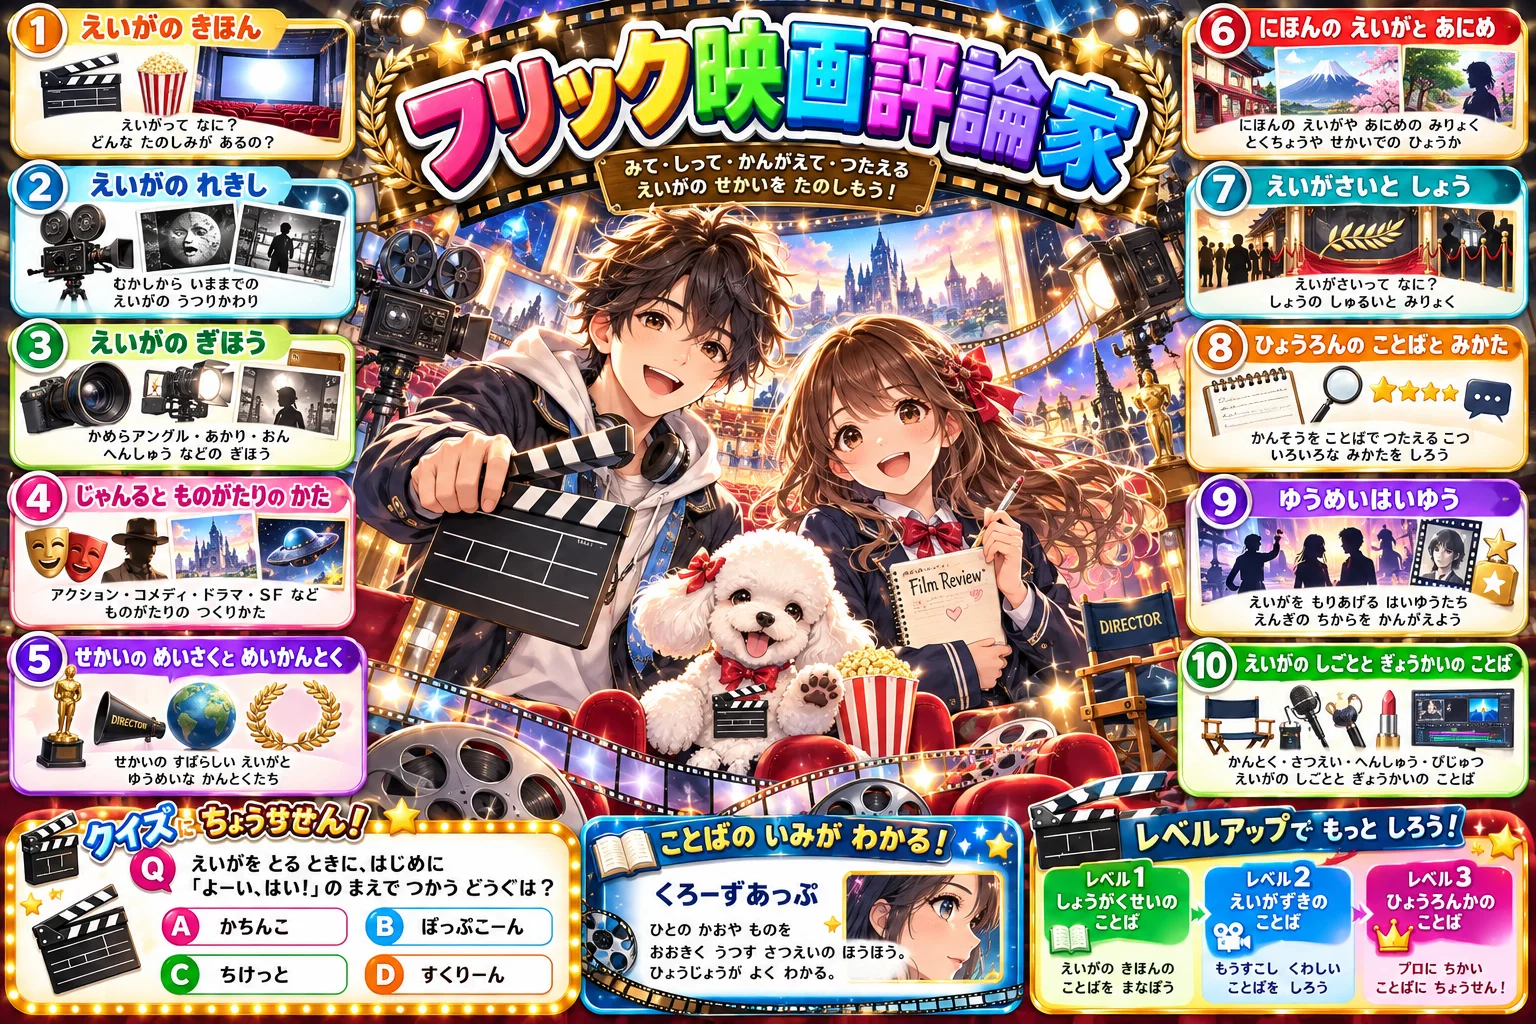
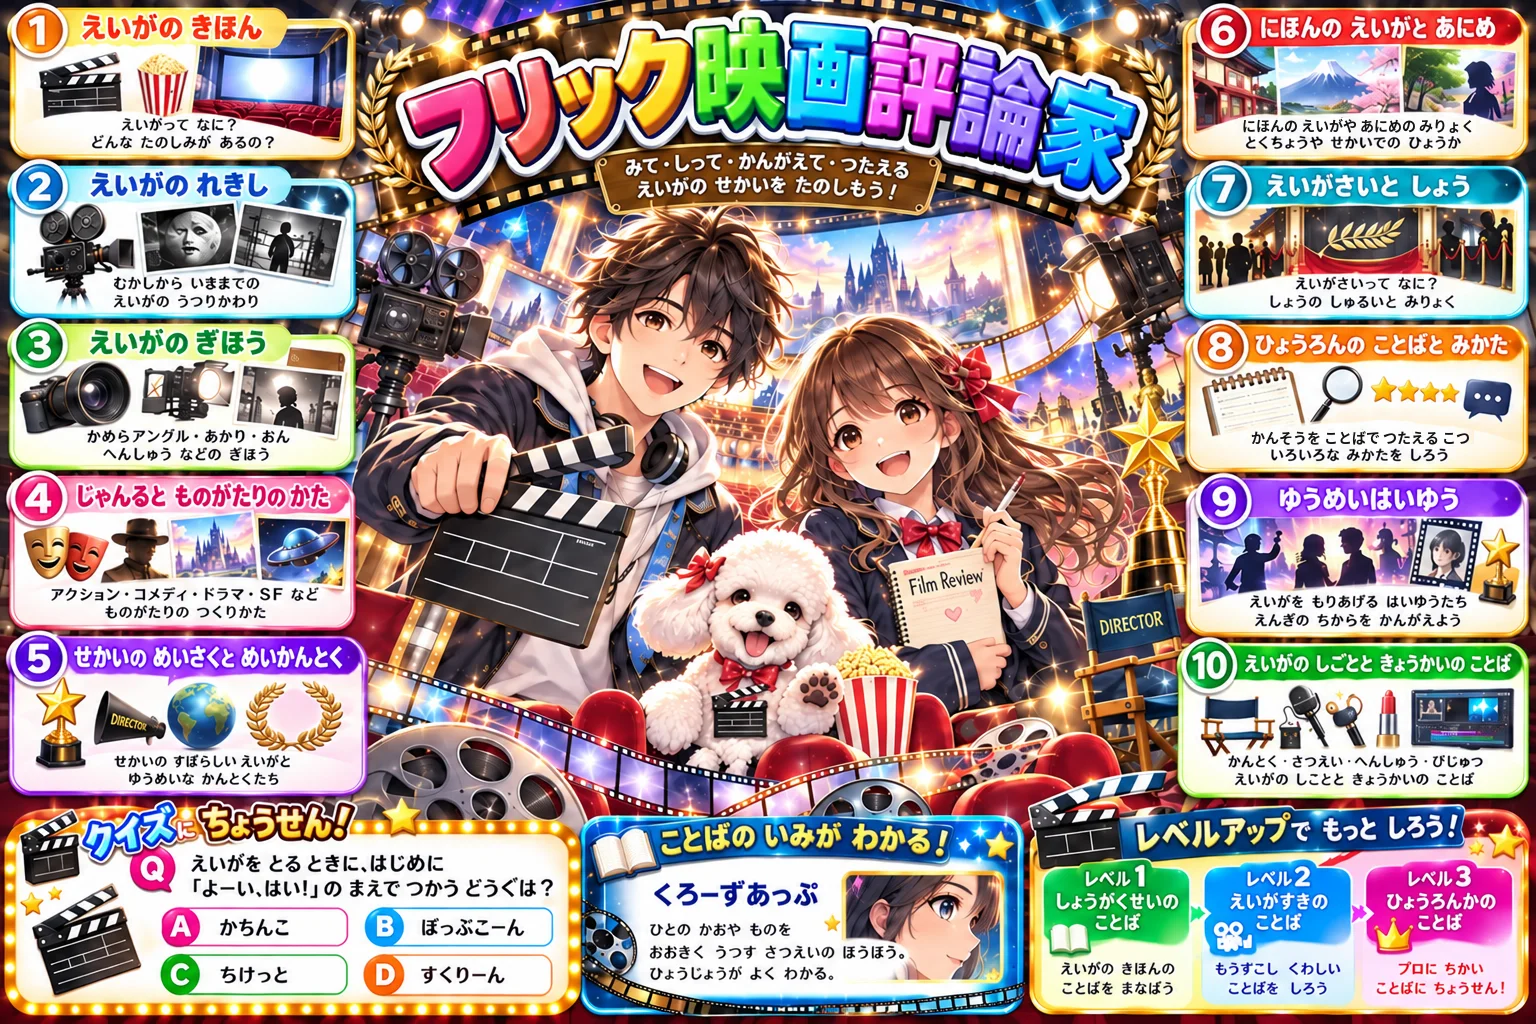
フリック映画評論家: トップの 絵を 3回目の 絵に(オスカー像に 似た 人形を 星に・6番と 8番の 字を 直した)
Claude-Session: https://claude.ai/code/session_01WDoVDvT4cB46xT9y1GTc1i

diff --git a/eiga/index.html b/eiga/index.html
@@ -441,7 +441,7 @@ ruby.nm rt{font-size:10px;font-weight:500;color:var(--muted);letter-spacing:.02e
       <button class="prof-btn" id="prof-btn" aria-label="マイページ"><span class="nm"></span><span class="tile sm sk-card" id="prof-tile">?</span></button>
     </div>
     <h1 class="sr-only">フリック映画評論家</h1>
-    <img class="hero" src="hero.webp?v=2" alt="フリック映画評論家。カチンコを 持つ 男の子と 映画の 感想を 書く 女の子と 白い犬が 映画館の 前で 笑う 絵" width="1536" height="1024">
+    <img class="hero" src="hero.webp?v=3" alt="フリック映画評論家。カチンコを 持つ 男の子と 映画の 感想を 書く 女の子と 白い犬が 映画館の 前で 笑う 絵" width="1536" height="1024">
     <p class="lead" id="lead">世界と日本の名所・地名・首都を、ひらがなでどれだけ速く打てるか。10問のトータルタイムで勝負しながら、旅に出よう。</p>
     <div class="modes" id="modes"></div>
     <div id="kabu-panel"></div><!-- 株式フリック旅行だけ: 集めた会社・称号(kabu/kabu.js) -->

diff --git a/tools/build_games.py b/tools/build_games.py
@@ -332,7 +332,7 @@ GAMES = {
     #   絵: けいくんの ChatGPT の 絵が 届くまで 仮の アイコン(tools/eiga/placeholder_icon.py)。トップの 絵・題名の 絵は まだ 無い(hero=False・logo=False)。
     #   届いたら tools/eiga/art/square-src.png → tools/icon_from_square.py eiga(iconv を +1)/ title-src.png → tools/title_from_art.py eiga(logo を True・art.word を 実寸に)/ eiga/hero.webp(hero を True)
     "eiga": dict(name="フリック映画評論家", modes="EIGA", kinds=set(), color="#c92a2a", hero=True, logo=False,
-                  art=dict(word=(900, 225), hero=(1536, 1024), alt="フリック映画評論家。カチンコを 持つ 男の子と 映画の 感想を 書く 女の子と 白い犬が 映画館の 前で 笑う 絵", iconv=1, wordv=2),
+                  art=dict(word=(900, 225), hero=(1536, 1024), alt="フリック映画評論家。カチンコを 持つ 男の子と 映画の 感想を 書く 女の子と 白い犬が 映画館の 前で 笑う 絵", iconv=1, wordv=3),
                   lead="映画の きほん・映画の 歴史・映画の 技法・ジャンルと 物語の 型・世界の 名作と 名監督・日本の 映画と アニメ・映画祭と 賞・評論の ことばと 見かた・有名俳優・映画の しごとと 業界の ことばを、ひらがなで フリック入力。打つと その ことばの 意味と、どの 国の 映画か・いつの 映画か・学ぶ 分野・しくみ図の どこに あるのかが 出るよ。世界と 日本の 有名な 作品には 「🍿 見どころ」も つくので、観たい 映画が どんどん ふえるよ。有名な 俳優が どんな 作品に 出ているかも わかるよ。映画が すきな 小学生の ことばから はじめて、映画の 感想を 書いて みたい 人、映画評論家が 使う ことばまで。カチンコは 映像と 音を あとで 合わせる ための 道具、などの 「へえ」も たくさん。4択クイズで 意味を たしかめる 練習も できるよ。",
                   how="表示された ひらがなを、そのまま打ち写してね。1回は かならず 10問。どのステージも いつも同じ10問なので、タイムをくらべられるよ。これは ことばを おぼえる ゲームだよ。映画の 感じかたは 人それぞれ。自分の 目で 見て、自分の ことばで 書いて みよう。映画は 作った 人の 作品です。年れいに 合った 映画を えらんで、正しい 方法で 見よう。結末(ネタバレ)は 書いていないよ。",
                   rule="ルール：予測変換は使わずに、自分の指で打ち切ろう。あそぶほど、映画の 歴史と 作りかたと 見かたが つながって 見えてくるよ。各映画会社・映画祭・団体とは 関係ありません。"),

diff --git a/tools/eiga/fix_text.py b/tools/eiga/fix_text.py
@@ -1,5 +1,6 @@
-"""フリック映画評論家の トップの 絵の 字を 直す(2026-10-12)。
-8番の 説明「かんそうを ことばで ??? こつ」の くずれた 字を「つたえる」に 書きなおす。
+"""フリック映画評論家の トップの 絵の 字を 直す(2026-10-12。3回目の 絵)。
+6番「にほんの えいがや おにめの ありょく」→「あにめの みりょく」/
+8番「かんそうを ことばで ??? こつ」→「つたえる」。1行ずつ 地の 色で ぬって 書きなおす。
 使いかた: python3 tools/eiga/fix_text.py <もとの絵.png> <書き出し.png>
 """
 import sys
@@ -7,27 +8,25 @@ import numpy as np
 from PIL import Image, ImageDraw, ImageFont
 
 F = '/usr/share/fonts/opentype/noto/NotoSansCJK-Bold.ttc'
+# (ぬる y0, y1, x0, x1, 地の色を取る 行, 字の 上, 字の 左右, 書く 字)
+LINES = [
+    (118, 132, 1238, 1480, [132, 133, 134], 118, (1240, 1477), 'にほんの えいがや あにめの みりょく'),
+    (430, 444, 1248, 1474, [426, 427, 428, 429, 444, 445, 446], 431, (1251, 1470), 'かんそうを ことばで つたえる こつ'),
+]
 src, out = sys.argv[1], sys.argv[2]
-im = Image.open(src).convert('RGB')
-a = np.array(im).astype(int)
-
-# 1行目(y 431〜442)を 上下の 地の 色で ぬる
-y0, y1, x0, x1 = 430, 444, 1248, 1474
-top = a[426:430, x0:x1]; bot = a[444:447, x0:x1]
-bg = np.median(np.concatenate([top, bot]), axis=0)  # 列ごとの 地の 色
-for y in range(y0, y1):
-    a[y, x0:x1] = bg
+a = np.array(Image.open(src).convert('RGB')).astype(int)
+for y0, y1, x0, x1, bgrows, *_ in LINES:
+    bg = np.median(a[bgrows, x0:x1], axis=0)  # 列ごとの 地の 色
+    a[y0:y1, x0:x1] = bg
 im = Image.fromarray(a.clip(0, 255).astype('uint8'))
-
 d = ImageDraw.Draw(im)
-text = 'かんそうを ことばで つたえる こつ'
-cx = (1251 + 1470) / 2
-for size in range(12, 20):  # もとの 字の 幅(219px)に そろえる
-    f = ImageFont.truetype(F, size, index=0)
-    l, t, r, b = d.textbbox((0, 0), text, font=f, stroke_width=0)
-    if r - l >= 214:
-        break
-w = r - l
-d.text((cx - w / 2 - l, 431 - t), text, font=f, fill=(20, 18, 24), stroke_width=0)
+for *_, top, (l0, r0), text in LINES:
+    want = r0 - l0
+    for size in range(10, 22):  # もとの 字の 幅に そろえる
+        f = ImageFont.truetype(F, size, index=0)
+        l, t, r, b = d.textbbox((0, 0), text, font=f)
+        if r - l >= want - 5:
+            break
+    d.text(((l0 + r0) / 2 - (r - l) / 2 - l, top - t), text, font=f, fill=(20, 18, 24))
+    print(text, size)
 im.save(out)
-print('size', size, 'width', w)
